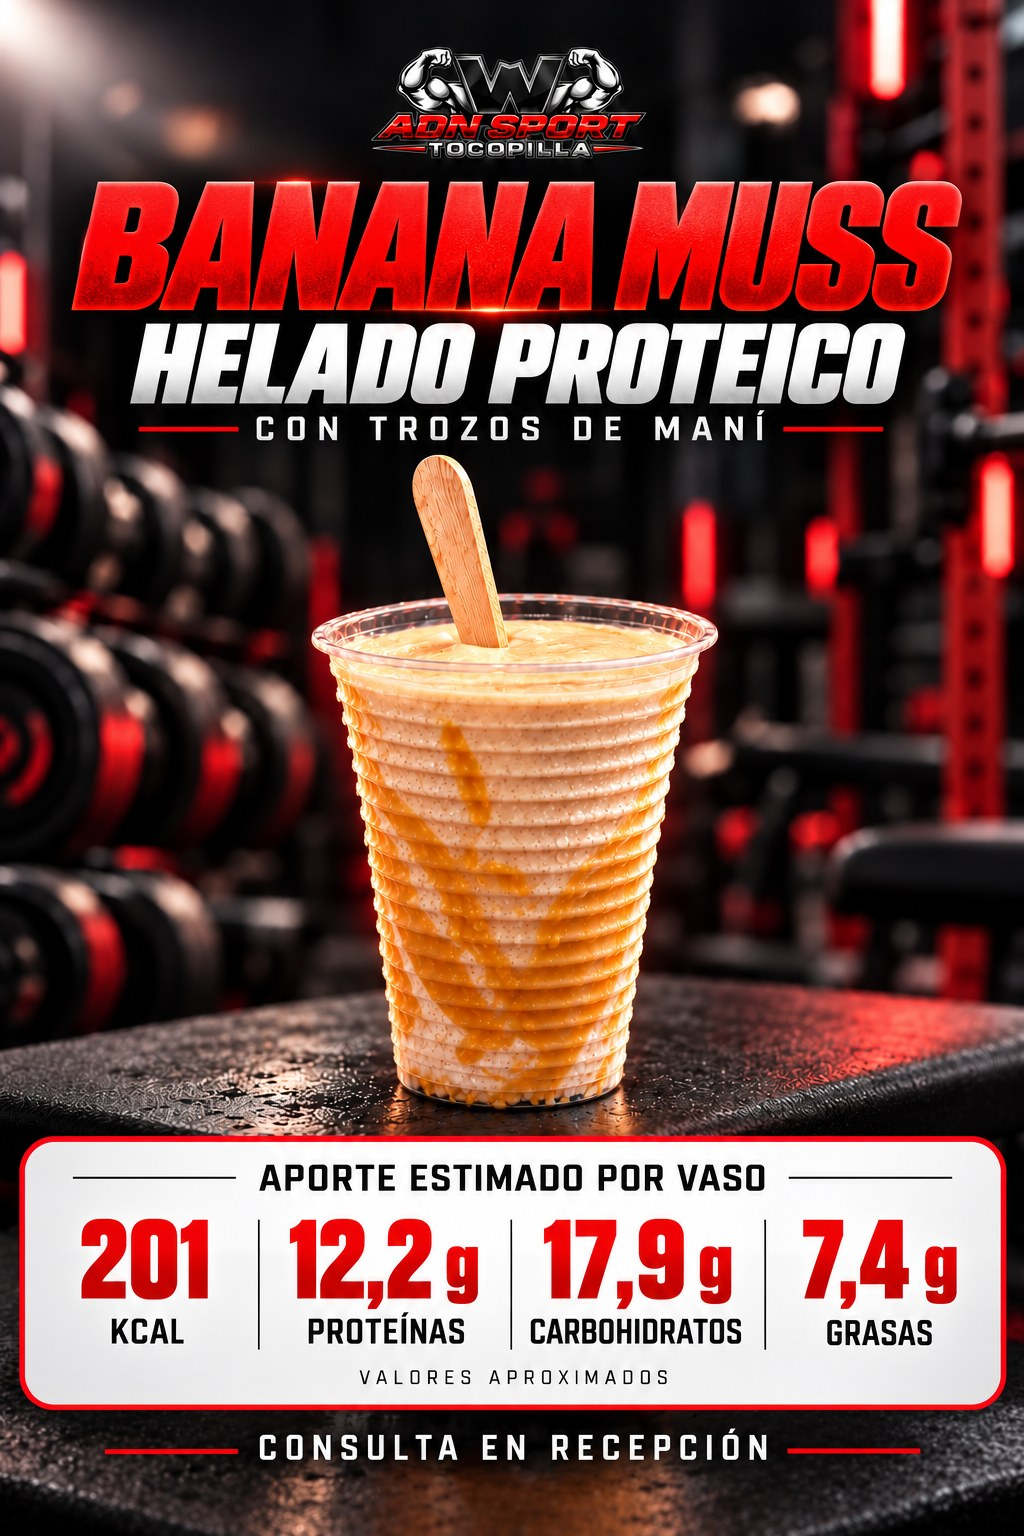
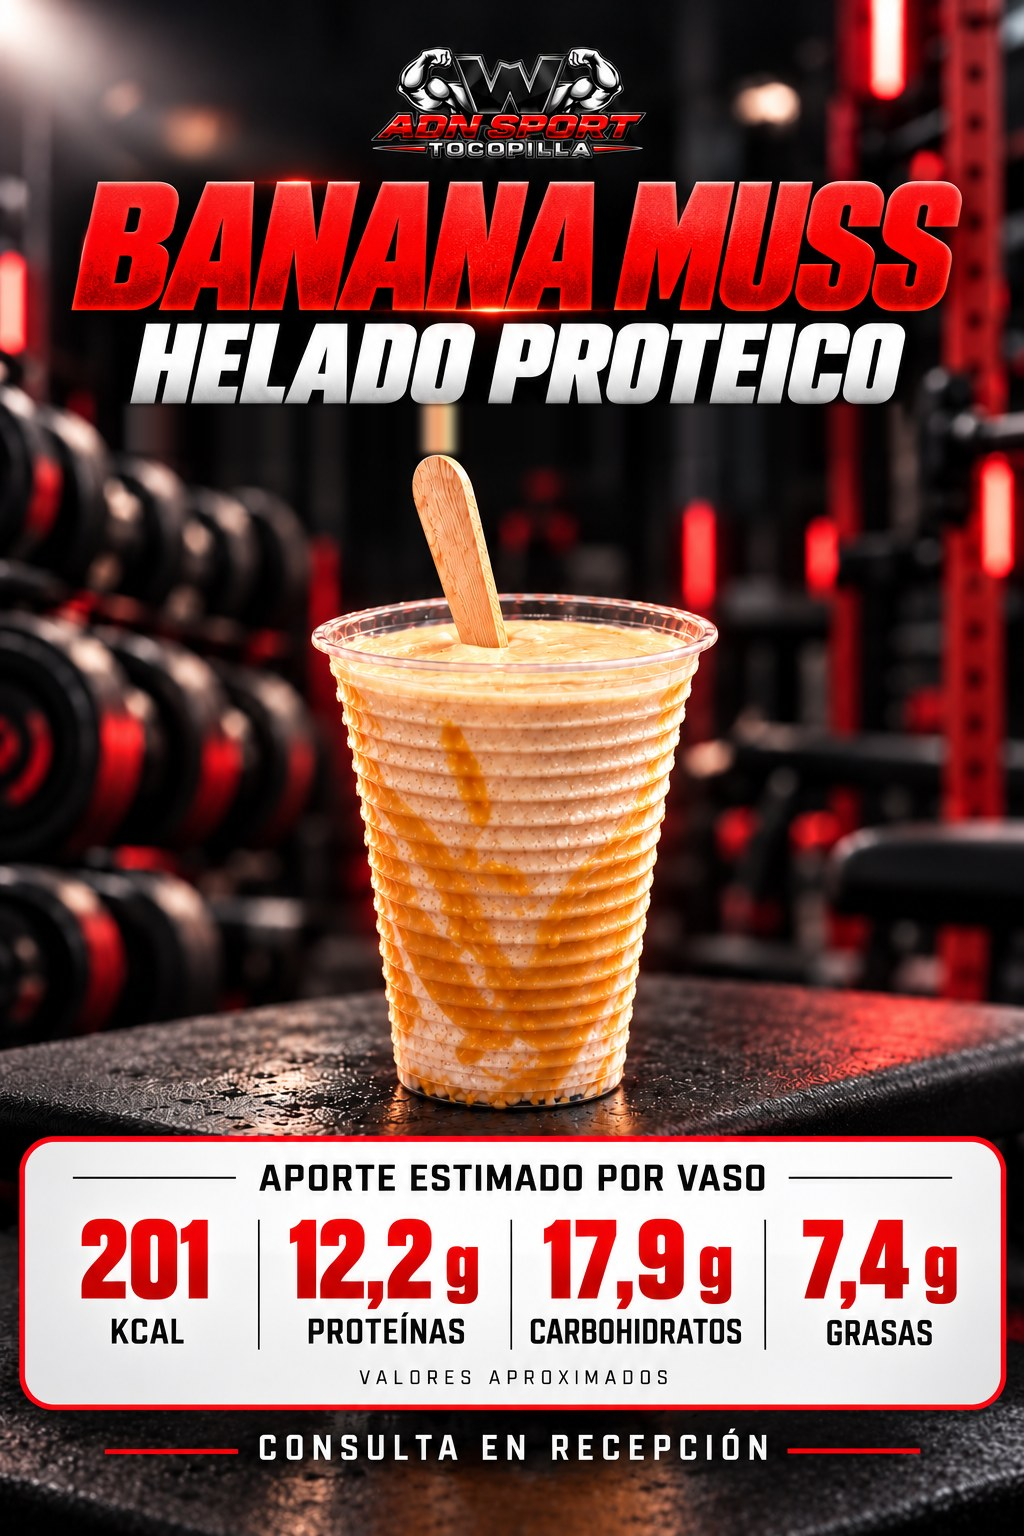
Tienda: afiche Banana Muss sin «con trozos de maní»
Claude-Session: https://claude.ai/code/session_013ZgZPSRHEDhMsqmx8Km842

Changed region(s): [[0.125, 0.25, 0.5312, 0.3125], [0.5625, 0.25, 0.875, 0.3125]]

diff --git a/tarjeta.html b/tarjeta.html
@@ -2480,7 +2480,7 @@ function renderEvolucion(s){
     oculta con «Ya no lo vendo» no llega. «Lo quiero» abre una ventanita (foto grande, cantidad, total)
     y después WhatsApp a Sara con el pedido. El stock solo baja cuando ella cobra en la tienda.
     Al cambiar una foto de img/tienda/ con el mismo nombre, subir TIENDA_FOTO_V junto con FOTO_V de tienda.html. */
- var TIENDA_FOTO_V = "63", TIENDA_WSP = "56975196394", TIENDA_SITIO = "https://encaladasara363-lang.github.io/wgymadnsport-archivos/";
+ var TIENDA_FOTO_V = "64", TIENDA_WSP = "56975196394", TIENDA_SITIO = "https://encaladasara363-lang.github.io/wgymadnsport-archivos/";
  /* Interruptor (25-10-2026, la dueña: "no quiero publicar la tienda el lunes porque compré ropa en Shein y no sé
     cuándo me llegaría"): en false la tarjeta no muestra la tienda aunque la Versión 25 esté instalada.
     Ponerlo en true (y subir TARJETA_VERSION) solo cuando ella lo pida. */
@@ -2640,7 +2640,7 @@ function renderEvolucion(s){
   { re:/^helado proteico manjarate/i, k:176, p:11.9, c:19.8, g:5.8, por:"100 ml", lleva:"Proteína de vainilla, sin azúcar: endulzado con stevia y alulosa", al:"leche" },
   { re:/^helado proteico capuchino/i, k:130, p:10, c:11, g:5, por:"100 ml", lleva:"Proteína de vainilla, sin azúcar: endulzado con stevia y alulosa", al:"leche" },
   { re:/^helado proteico tropical/i, k:143, p:9.8, c:14, g:5.3, por:"100 ml", lleva:"Proteína de vainilla, sin azúcar: endulzado con stevia y alulosa", al:"leche" },
-  { re:/^helado proteico banana mu(ss|sse|ousse)/i, k:201, p:12.2, c:17.9, g:7.4, por:"100 ml", lleva:"Proteína, plátano y trozos de maní, sin azúcar: endulzado con stevia y alulosa", al:"leche y maní" },
+  { re:/^helado proteico banana mu(ss|sse|ousse)/i, k:201, p:12.2, c:17.9, g:7.4, por:"100 ml", lleva:"Proteína y plátano, sin azúcar: endulzado con stevia y alulosa", al:"leche y maní" },
   { re:/^helado proteico banana split/i, k:137, p:8.2, c:12.3, g:5.8, por:"100 ml", lleva:"Proteína, plátano, nueces y chocolate", al:"leche y nueces" },
   { re:/^helado proteico banana/i, k:161, p:10.9, c:16.3, g:5.8, por:"100 ml", lleva:"Proteína de chocolate, sin azúcar: endulzado con stevia y alulosa", al:"leche y maní" },
   { re:/^helado proteico berry/i, k:126, p:9.9, c:12.3, g:3.9, por:"100 ml", lleva:"Proteína de frutilla, sin azúcar: endulzado con stevia y alulosa", al:"leche" },
@@ -2757,7 +2757,7 @@ function renderEvolucion(s){
     compara TARJETA_VERSION con tarjeta-version.txt del sitio y, si hay
     una más nueva, la página se recarga sola (el nombre ya aparece
     puesto). Al cambiar tarjeta.html, subir los DOS números juntos. */
- var TARJETA_VERSION = "2026111501", ultimaRevisionVersion = 0;
+ var TARJETA_VERSION = "2026111502", ultimaRevisionVersion = 0;
 function recargarFresco_(v){
  /* Recarga pidiendo la página nueva (11-10-2026): location.reload() podía traer la copia
     guardada del teléfono (GitHub guarda la página ~10 min) y el socio seguía con la versión

diff --git a/tienda.html b/tienda.html
@@ -353,7 +353,7 @@ function hoyISO(){ return new Intl.DateTimeFormat("en-CA", { timeZone:"America/S
 function ahoraTxt(){ var f = new Intl.DateTimeFormat("sv-SE", { timeZone:"America/Santiago", year:"numeric", month:"2-digit", day:"2-digit", hour:"2-digit", minute:"2-digit" }).format(new Date()); return f.replace("T", " ").slice(0, 16); }
 function normTxt(s){ return String(s || "").toUpperCase().normalize("NFD").replace(/[̀-ͯ]/g, ""); }
 /* Al cambiar una foto en img/tienda/ (mismo nombre), subir FOTO_V para que los teléfonos no muestren la antigua. */
-var FOTO_V = "63";
+var FOTO_V = "64";
 function fotoUrl(f){ return f ? (/^data:/.test(f) ? f : f + (f.indexOf("?") < 0 ? "?v=" + FOTO_V : "")) : ""; }
 /* 📷 Foto subida desde el celular (27-10-2026, la dueña: "¿no lo puedo hacer todo sin depender de ti?"): se achica a
    máx. 480 × 640, se le pone el logo del gimnasio arriba a la izquierda (34 % del ancho, como las demás fotos) y se guarda
@@ -694,7 +694,7 @@ setInterval(function(){ if(pend.length) enviarPendientes(); }, 30000);
   var on = document.documentElement.classList.toggle("rosa");
   try{ localStorage.setItem("wgym_tienda_tema_v2", on ? "rosa" : "oscuro"); }catch(e){}
   toast(on ? "🎨 Fondo rosita (solo en este equipo). Toca 🎨 de nuevo para volver al negro." : "🎨 Volviste al fondo negro.", 3500); }; })();
-var TIENDA_VERSION = "2026111302";
+var TIENDA_VERSION = "2026111501";
 setInterval(function(){ if(clave && !document.hidden && $("velo").hidden && !$("app").hidden) enviarPendientes().then(function(){ cargar(true); }); }, 30000);
 function revisarVersion(){
  fetch("tienda-version.txt?t=" + Date.now(), { cache:"no-store" }).then(function(r){ return r.ok ? r.text() : ""; }).then(function(v){

diff --git a/CLAUDE.md b/CLAUDE.md
@@ -1644,7 +1644,7 @@ productos» y «Tienda movimientos», acciones `tienda*` de `docs/apps-script/In
   tarjeta, `tiendaVitrina_` (Versión 25, `ultimaVentaTienda_`) manda `vendido:true` y la tarjeta muestra «VENDIDO» en vez
   de «AGOTADO»; pasados los 15 días la prenda ya no se envía.
 - **⛔ SIN STOCK (27-10-2026, la dueña: "cuando se acaba el producto tendría que salir sin stock para que mis socios sepan"):** en 📦 Inventario, todo producto (no ropa vendida, no batido que sale del tarro, no apartado) con stock 0 sale con la foto gris, sello rojo «SIN STOCK» y pastilla «⛔ SIN STOCK · repón con «Llegó mercadería»»; en la búsqueda de 🛒 Vender dice «⛔ SIN STOCK». En la vitrina de la tarjeta el sello dice «SIN STOCK» (antes «AGOTADO») con «Pronto vuelve». Vuelve solo al cargar mercadería.
-- **🍦 Categoría «Helados» (31-10-2026, la dueña mandó su catálogo de helados proteicos sin azúcar, endulzados con stevia y alulosa):** en `CATS` de `tienda.html`, `TIENDA_ICONOS` de `tarjeta.html` y `SIN_APARTAR` (no se apartan); la vitrina cerrada dice «🍦 Helados proteicos sin azúcar». 5 sabores con foto sacada de cada página del catálogo (ya traen el logo; no ponérselo encima): Manjarate (`img/tienda/helado-proteico-manjarate.jpg`, 125 g, 176 kcal · 11,9 P · 19,8 C · 5,8 G), Capuchino (110 g, 130 · 10 · 11 · 5), Tropical Coco (130 g, 143 · 9,8 · 14 · 5,3), Banana Choco Maní (130 g, 161 · 10,9 · 16,3 · 5,8; contiene maní) y Berry Cream (130 g, 126 · 9,9 · 12,3 · 3,9). Pistacho Dorado (01-11-2026, afiche aparte de la dueña; ya trae el logo: `img/tienda/helado-proteico-pistacho-dorado.jpg`; 125 g, 184 kcal · 12,5 P · 15,4 C · 8,0 G; costo $1.100, venta $2.000, 3 unidades; con proteína de vainilla; contiene leche y pistacho; el afiche no dice «sin azúcar», por eso no se puso). Pistacho Menta (02-11-2026, afiche de la dueña con el logo: `img/tienda/helado-proteico-pistacho-menta.jpg`; mismos macros que el Pistacho Dorado, 125 g, 184 kcal · 12,5 P · 15,4 C · 8,0 G; contiene leche y pistacho; 3 unidades; costo y precio como el Pistacho Dorado salvo que la dueña diga otro). Oreo proteico (02-11-2026, afiche de la dueña con el logo: `img/tienda/helado-proteico-oreo.jpg`; 130 g, 185 kcal · 12,6 P · 17,7 C · 7,1 G; con proteína de vainilla y 3 galletas tipo Oreo; contiene leche y trigo; 3 unidades; venta $1.500 como los otros). Coco Bombón proteico (02-11-2026, afiche de la dueña con el logo: `img/tienda/helado-proteico-coco-bombon.jpg`; 182 kcal · 10,0 P · 12,7 C · 10,4 G; coco, almendras y chocolate blanco; contiene leche y almendras; 3 unidades a $1.500). Moka White proteico (03-11-2026, afiche de la dueña con el logo: `img/tienda/helado-proteico-moka-white.jpg`; 154 kcal · 9,7 P · 14,3 C · 7,0 G; café y chocolate blanco; contiene leche; 3 unidades a $1.500). Avellana Manjar proteico (03-11-2026, afiche de la dueña con el logo: `img/tienda/helado-proteico-avellana-manjar.jpg`; 163 kcal · 10,0 P · 13,5 C · 7,8 G; avellanas y manjar; contiene leche y avellanas; 3 unidades a $1.500). Banana Split Nuez proteico (03-11-2026, afiche de la dueña con el logo: `img/tienda/helado-proteico-banana-split-nuez.jpg`; 137 kcal · 8,2 P · 12,3 C · 5,8 G; plátano, nueces y chocolate; contiene leche y nueces; 4 unidades a $1.500; en `TIENDA_MACROS` va antes de la regla de «banana» para no confundirse con Banana Choco Maní). Coco Vainilla proteico (04-11-2026, afiche de la dueña con el logo: `img/tienda/helado-proteico-coco-vainilla.jpg`; 140 kcal · 9,8 P · 9,4 C · 6,7 G; coco y vainilla; contiene leche; 3 unidades a $1.500; en `TIENDA_MACROS` va antes de la regla de «coco» para no confundirse con Coco Bombón). Alfajor Crunch proteico (04-11-2026, afiche de la dueña con el logo: `img/tienda/helado-proteico-alfajor-crunch.jpg`; 164 kcal · 9,4 P · 18,3 C · 6,4 G; galleta, manjar y chocolate; contiene leche, trigo y soya; 3 unidades a $1.500). Mango Chía proteico (05-11-2026, afiche de la dueña con el logo: `img/tienda/helado-proteico-mango-chia.jpg`; 111 kcal · 7,8 P · 10,7 C · 3,9 G; mango y chía; contiene leche; 5 unidades a $1.500). Selva Negra proteico (05-11-2026, afiche de la dueña con el logo: `img/tienda/helado-proteico-selva-negra.jpg`; 112 kcal · 8,6 P · 10,5 C · 3,9 G; cereza y cacao; contiene leche; 3 unidades a $1.500). Menta Chips proteico (05-11-2026, afiche de la dueña con el logo: `img/tienda/helado-proteico-menta-chips.jpg`; 140 kcal · 9,7 P · 10,6 C · 6,2 G; menta y chips de chocolate; contiene leche; 4 unidades a $1.500). Brownie Choco proteico (05-11-2026, afiche de la dueña con el logo: `img/tienda/helado-proteico-brownie-choco.jpg`; 165 kcal · 9,5 P · 14,8 C · 7,9 G; brownie y chocolate; contiene leche, trigo y huevo; 3 unidades a $1.500). Maní Bombón proteico (10-11-2026, afiche de la dueña con el logo: `img/tienda/helado-proteico-mani-bombon.jpg`; 175 kcal · 10,9 P · 11,6 C · 9,6 G; maní y chocolate; contiene leche y maní; $1.500). Sueño de Avellana proteico (13-11-2026, afiche de la dueña «Sueño de Nutella» con el logo: `img/tienda/helado-proteico-sueno-avellana.jpg`; en la tienda sin la marca Nutella en el nombre; 137 kcal · 9,4 P · 12,4 C · 5,8 G; hecho con crema En Línea; contiene leche y avellanas; 4 unidades a $1.500). Manjar Café Crunch proteico (13-11-2026, afiche de la dueña con el logo: `img/tienda/helado-proteico-manjar-cafe-crunch.jpg`; 155 kcal · 10,0 P · 15,9 C · 5,9 G; manjar, café y maní; contiene leche y maní; 5 unidades a $1.500). Tiramisú proteico (14-11-2026, afiche de la dueña con el logo: `img/tienda/helado-proteico-tiramisu.jpg`; 143 kcal · 9,7 P · 14,5 C · 4,9 G; café, cacao y bizcocho; contiene leche, trigo y soya; 5 unidades a $1.500). Banana Muss proteico (15-11-2026, afiche de la dueña con el logo: `img/tienda/helado-proteico-banana-muss.jpg`; 201 kcal · 12,2 P · 17,9 C · 7,4 G; plátano y trozos de maní; contiene leche y maní; $1.500; en `TIENDA_MACROS` va antes de «banana split» y de «banana»). **Todos los vasos son de 100 ml (02-11-2026, la dueña): en `TIENDA_MACROS` el campo `por` dice «100 ml» en todos los sabores (los gramos de los afiches eran el peso de la porción).** Los nombres de producto empiezan con «Helado proteico …» porque `TIENDA_MACROS` de la tarjeta los reconoce así (campo `por` = porción del vaso). Precio de venta $1.500 cada uno (la dueña, 31-10-2026); costo y stock por confirmar. **Un solo código para todos los sabores (31-10-2026, pedido de la dueña):** `CODIGOS_GRUPO` en `tienda.html` (`"2001500000000": "Helados"`); al escanearlo en 🛒 Vender (normal o «Escanear varias») se abre «🍦 ¿Qué sabor?» (`elegirDelGrupo`) con la foto y el stock de cada helado, y se suma el elegido (con «varias», la cámara vuelve a abrirse). No se guarda como código de ningún producto. Etiqueta impresa para el refrigerador: 2 por hoja chica de 5 × 7 cm (logo, «HELADOS · PROTEICOS SIN AZÚCAR», código, «TODOS LOS SABORES $1.500»), probada con ZXing.
+- **🍦 Categoría «Helados» (31-10-2026, la dueña mandó su catálogo de helados proteicos sin azúcar, endulzados con stevia y alulosa):** en `CATS` de `tienda.html`, `TIENDA_ICONOS` de `tarjeta.html` y `SIN_APARTAR` (no se apartan); la vitrina cerrada dice «🍦 Helados proteicos sin azúcar». 5 sabores con foto sacada de cada página del catálogo (ya traen el logo; no ponérselo encima): Manjarate (`img/tienda/helado-proteico-manjarate.jpg`, 125 g, 176 kcal · 11,9 P · 19,8 C · 5,8 G), Capuchino (110 g, 130 · 10 · 11 · 5), Tropical Coco (130 g, 143 · 9,8 · 14 · 5,3), Banana Choco Maní (130 g, 161 · 10,9 · 16,3 · 5,8; contiene maní) y Berry Cream (130 g, 126 · 9,9 · 12,3 · 3,9). Pistacho Dorado (01-11-2026, afiche aparte de la dueña; ya trae el logo: `img/tienda/helado-proteico-pistacho-dorado.jpg`; 125 g, 184 kcal · 12,5 P · 15,4 C · 8,0 G; costo $1.100, venta $2.000, 3 unidades; con proteína de vainilla; contiene leche y pistacho; el afiche no dice «sin azúcar», por eso no se puso). Pistacho Menta (02-11-2026, afiche de la dueña con el logo: `img/tienda/helado-proteico-pistacho-menta.jpg`; mismos macros que el Pistacho Dorado, 125 g, 184 kcal · 12,5 P · 15,4 C · 8,0 G; contiene leche y pistacho; 3 unidades; costo y precio como el Pistacho Dorado salvo que la dueña diga otro). Oreo proteico (02-11-2026, afiche de la dueña con el logo: `img/tienda/helado-proteico-oreo.jpg`; 130 g, 185 kcal · 12,6 P · 17,7 C · 7,1 G; con proteína de vainilla y 3 galletas tipo Oreo; contiene leche y trigo; 3 unidades; venta $1.500 como los otros). Coco Bombón proteico (02-11-2026, afiche de la dueña con el logo: `img/tienda/helado-proteico-coco-bombon.jpg`; 182 kcal · 10,0 P · 12,7 C · 10,4 G; coco, almendras y chocolate blanco; contiene leche y almendras; 3 unidades a $1.500). Moka White proteico (03-11-2026, afiche de la dueña con el logo: `img/tienda/helado-proteico-moka-white.jpg`; 154 kcal · 9,7 P · 14,3 C · 7,0 G; café y chocolate blanco; contiene leche; 3 unidades a $1.500). Avellana Manjar proteico (03-11-2026, afiche de la dueña con el logo: `img/tienda/helado-proteico-avellana-manjar.jpg`; 163 kcal · 10,0 P · 13,5 C · 7,8 G; avellanas y manjar; contiene leche y avellanas; 3 unidades a $1.500). Banana Split Nuez proteico (03-11-2026, afiche de la dueña con el logo: `img/tienda/helado-proteico-banana-split-nuez.jpg`; 137 kcal · 8,2 P · 12,3 C · 5,8 G; plátano, nueces y chocolate; contiene leche y nueces; 4 unidades a $1.500; en `TIENDA_MACROS` va antes de la regla de «banana» para no confundirse con Banana Choco Maní). Coco Vainilla proteico (04-11-2026, afiche de la dueña con el logo: `img/tienda/helado-proteico-coco-vainilla.jpg`; 140 kcal · 9,8 P · 9,4 C · 6,7 G; coco y vainilla; contiene leche; 3 unidades a $1.500; en `TIENDA_MACROS` va antes de la regla de «coco» para no confundirse con Coco Bombón). Alfajor Crunch proteico (04-11-2026, afiche de la dueña con el logo: `img/tienda/helado-proteico-alfajor-crunch.jpg`; 164 kcal · 9,4 P · 18,3 C · 6,4 G; galleta, manjar y chocolate; contiene leche, trigo y soya; 3 unidades a $1.500). Mango Chía proteico (05-11-2026, afiche de la dueña con el logo: `img/tienda/helado-proteico-mango-chia.jpg`; 111 kcal · 7,8 P · 10,7 C · 3,9 G; mango y chía; contiene leche; 5 unidades a $1.500). Selva Negra proteico (05-11-2026, afiche de la dueña con el logo: `img/tienda/helado-proteico-selva-negra.jpg`; 112 kcal · 8,6 P · 10,5 C · 3,9 G; cereza y cacao; contiene leche; 3 unidades a $1.500). Menta Chips proteico (05-11-2026, afiche de la dueña con el logo: `img/tienda/helado-proteico-menta-chips.jpg`; 140 kcal · 9,7 P · 10,6 C · 6,2 G; menta y chips de chocolate; contiene leche; 4 unidades a $1.500). Brownie Choco proteico (05-11-2026, afiche de la dueña con el logo: `img/tienda/helado-proteico-brownie-choco.jpg`; 165 kcal · 9,5 P · 14,8 C · 7,9 G; brownie y chocolate; contiene leche, trigo y huevo; 3 unidades a $1.500). Maní Bombón proteico (10-11-2026, afiche de la dueña con el logo: `img/tienda/helado-proteico-mani-bombon.jpg`; 175 kcal · 10,9 P · 11,6 C · 9,6 G; maní y chocolate; contiene leche y maní; $1.500). Sueño de Avellana proteico (13-11-2026, afiche de la dueña «Sueño de Nutella» con el logo: `img/tienda/helado-proteico-sueno-avellana.jpg`; en la tienda sin la marca Nutella en el nombre; 137 kcal · 9,4 P · 12,4 C · 5,8 G; hecho con crema En Línea; contiene leche y avellanas; 4 unidades a $1.500). Manjar Café Crunch proteico (13-11-2026, afiche de la dueña con el logo: `img/tienda/helado-proteico-manjar-cafe-crunch.jpg`; 155 kcal · 10,0 P · 15,9 C · 5,9 G; manjar, café y maní; contiene leche y maní; 5 unidades a $1.500). Tiramisú proteico (14-11-2026, afiche de la dueña con el logo: `img/tienda/helado-proteico-tiramisu.jpg`; 143 kcal · 9,7 P · 14,5 C · 4,9 G; café, cacao y bizcocho; contiene leche, trigo y soya; 5 unidades a $1.500). Banana Muss proteico (15-11-2026, afiche de la dueña con el logo: `img/tienda/helado-proteico-banana-muss.jpg`; 201 kcal · 12,2 P · 17,9 C · 7,4 G; plátano; contiene leche y maní; 6 unidades a $1.500; la dueña pidió borrar «con trozos de maní» del afiche (tapado con el fondo); en `TIENDA_MACROS` va antes de «banana split» y de «banana»). **Todos los vasos son de 100 ml (02-11-2026, la dueña): en `TIENDA_MACROS` el campo `por` dice «100 ml» en todos los sabores (los gramos de los afiches eran el peso de la porción).** Los nombres de producto empiezan con «Helado proteico …» porque `TIENDA_MACROS` de la tarjeta los reconoce así (campo `por` = porción del vaso). Precio de venta $1.500 cada uno (la dueña, 31-10-2026); costo y stock por confirmar. **Un solo código para todos los sabores (31-10-2026, pedido de la dueña):** `CODIGOS_GRUPO` en `tienda.html` (`"2001500000000": "Helados"`); al escanearlo en 🛒 Vender (normal o «Escanear varias») se abre «🍦 ¿Qué sabor?» (`elegirDelGrupo`) con la foto y el stock de cada helado, y se suma el elegido (con «varias», la cámara vuelve a abrirse). No se guarda como código de ningún producto. Etiqueta impresa para el refrigerador: 2 por hoja chica de 5 × 7 cm (logo, «HELADOS · PROTEICOS SIN AZÚCAR», código, «TODOS LOS SABORES $1.500»), probada con ZXing.
 - **🥤 Smoothie proteico Choco Banana Cream (05-11-2026, reemplaza al «Batido de proteína» de Clear Protein, que la dueña ya no vende):** Smoothies, vaso de 450 ml, $4.500; receta de la dueña: 200 ml de leche entera sin lactosa, 30 g de proteína Dragon Pharma Protein Phorm chocolate milkshake (carne + whey; tarro 2.268 g a $74.000 → ≈75 smoothies, ≈$979 por 30 g), 70 g de plátano congelado, 60 g de yogur natural sin azúcar, 60 g de hielo, 0,3 g de xantana y stevia opcional; costo ≈$1.580. Foto `img/tienda/smoothie-choco-banana-cream.jpg` (afiche: foto de ChatGPT + logo + cuadro con el tarro Protein Phorm (sin «carne + whey»: a la dueña le pareció feo), para que los socios sepan qué proteína toman, + «SMOOTHIE» grande en dorado con sombra roja (pedido de la dueña) y el sabor en Rubik Distressed blanco, los 4 macros en Anton, $4.500 y la franja roja grande «💪 CREATINA + $1.000 ADICIONAL» a todo el ancho, abajo (texto y tamaño pedidos por la dueña); armado con HTML y Playwright; cada sabor nuevo, igual). Macros en `TIENDA_MACROS` (`/^smoothie proteico choco banana/`): ≈340 kcal · 31 P · 33 C · 10 G, contiene leche. Lleva «💪 + Creatina $1.000» (`esBatido` en la tienda; en la tarjeta `conCrea` va solo para batidos, smoothies y el granizado: antes salía también en helados y waffle porque usaba `tvMacros_`). El ganador de masa ahora descuenta del tarro del smoothie (`USA_PORCION` base `/^(smoothie|batido de prote)/`; en la vitrina, primero el smoothie).
 - **💪 Un solo código «Por porción» (10-11-2026, la dueña: "un solo QR como los helados… smoothie, pre entreno, creatina"):** `CODIGOS_GRUPO` `"2009000000001": "Por porción"`; al escanearlo en 🛒 Vender se abre «💪 ¿Qué lleva?» con todo lo que cumple `esPorPorcion` (smoothies, pre entrenos y granizado y, desde el 10-11-2026 (la dueña: "todo lo que es suplementos"), toda la categoría Suplementos, también los tarros enteros como la beta alanina y la creatina de 500 g), ordenado smoothies → pre entrenos → creatinas → proteínas. **La dueña usa la etiqueta ya impresa del pre entreno Mr Hyde (la del Fruit Punch):** en `alEscanear`, escanear un producto «Pre entreno Mr Hyde…» abre esta misma lista (reemplaza el «¿Qué sabor?» de `FAMILIAS` para el Mr Hyde). **Bebestibles igual (10-11-2026, la dueña tiene impresa la etiqueta del agua):** escanear «Agua purificada WOL…» o «Recarga de agua…» abre «¿Qué bebestible?» con toda la categoría Bebestibles (el agua incluida). **Un código por sección (10-11-2026):** `CODIGOS_GRUPO` suma `"2008000000004": "Bebestibles"` y `"2007000000007": "Snacks"` («¿Qué snack?»). Hoja de etiquetas de 5 × 7 pulgadas con 6 de cada uno de los 4 códigos (POR PORCIÓN 2009000000001, BEBESTIBLES, SNACKS, HELADOS 2001500000000), leídas con ZXing. En la lista «¿Qué…?» el detalle de cada producto (tamaño, ej. «500 ml» / «1 litro») va grande en amarillo (`.gdet`; la dueña: "específico en grande si es de medio o un litro"). La lista va ordenada de menor a mayor tamaño (ml, litros, «litro y medio», gramos; sin tamaño al final) y luego por nombre (`tam`/`porTam` en `elegirDelGrupo`). Etiquetas de 24 por hoja de 5 × 7 pulgadas «SUPLEMENTOS · POR PORCIÓN», leídas con ZXing.
 - **🍹 Categoría «Smoothies» (05-11-2026, la dueña: "una sección de smoothies… unos 10 sabores", el primero el Choco Banana Cream):** en `CATS` de `tienda.html`, `TIENDA_ICONOS` de `tarjeta.html` y `SIN_APARTAR`; la vitrina cerrada dice «🍹 Smoothies proteicos». Todos los sabores salen de las porciones del producto «Tarro de proteína …» (Suplementos, stock = porciones de 30 g; `USA_PORCION` `/^smoothie/` → `/^tarro de prote/`); el tarro no se muestra a los socios (la tarjeta lo saca de la vitrina) y cada smoothie toma su stock. Los nombres empiezan con «Smoothie proteico …»; cada sabor lleva su línea en `TIENDA_MACROS`. Un solo código para todos: `CODIGOS_GRUPO` `"2004500000001": "Smoothies"` («🍹 ¿Qué sabor?» al escanear); etiquetas de 24 por hoja de 5 × 7 pulgadas con «SMOOTHIES $4.500», leídas con ZXing. El ganador de masa también sale del tarro (`/^(tarro de prote|batido de prote)/`).
